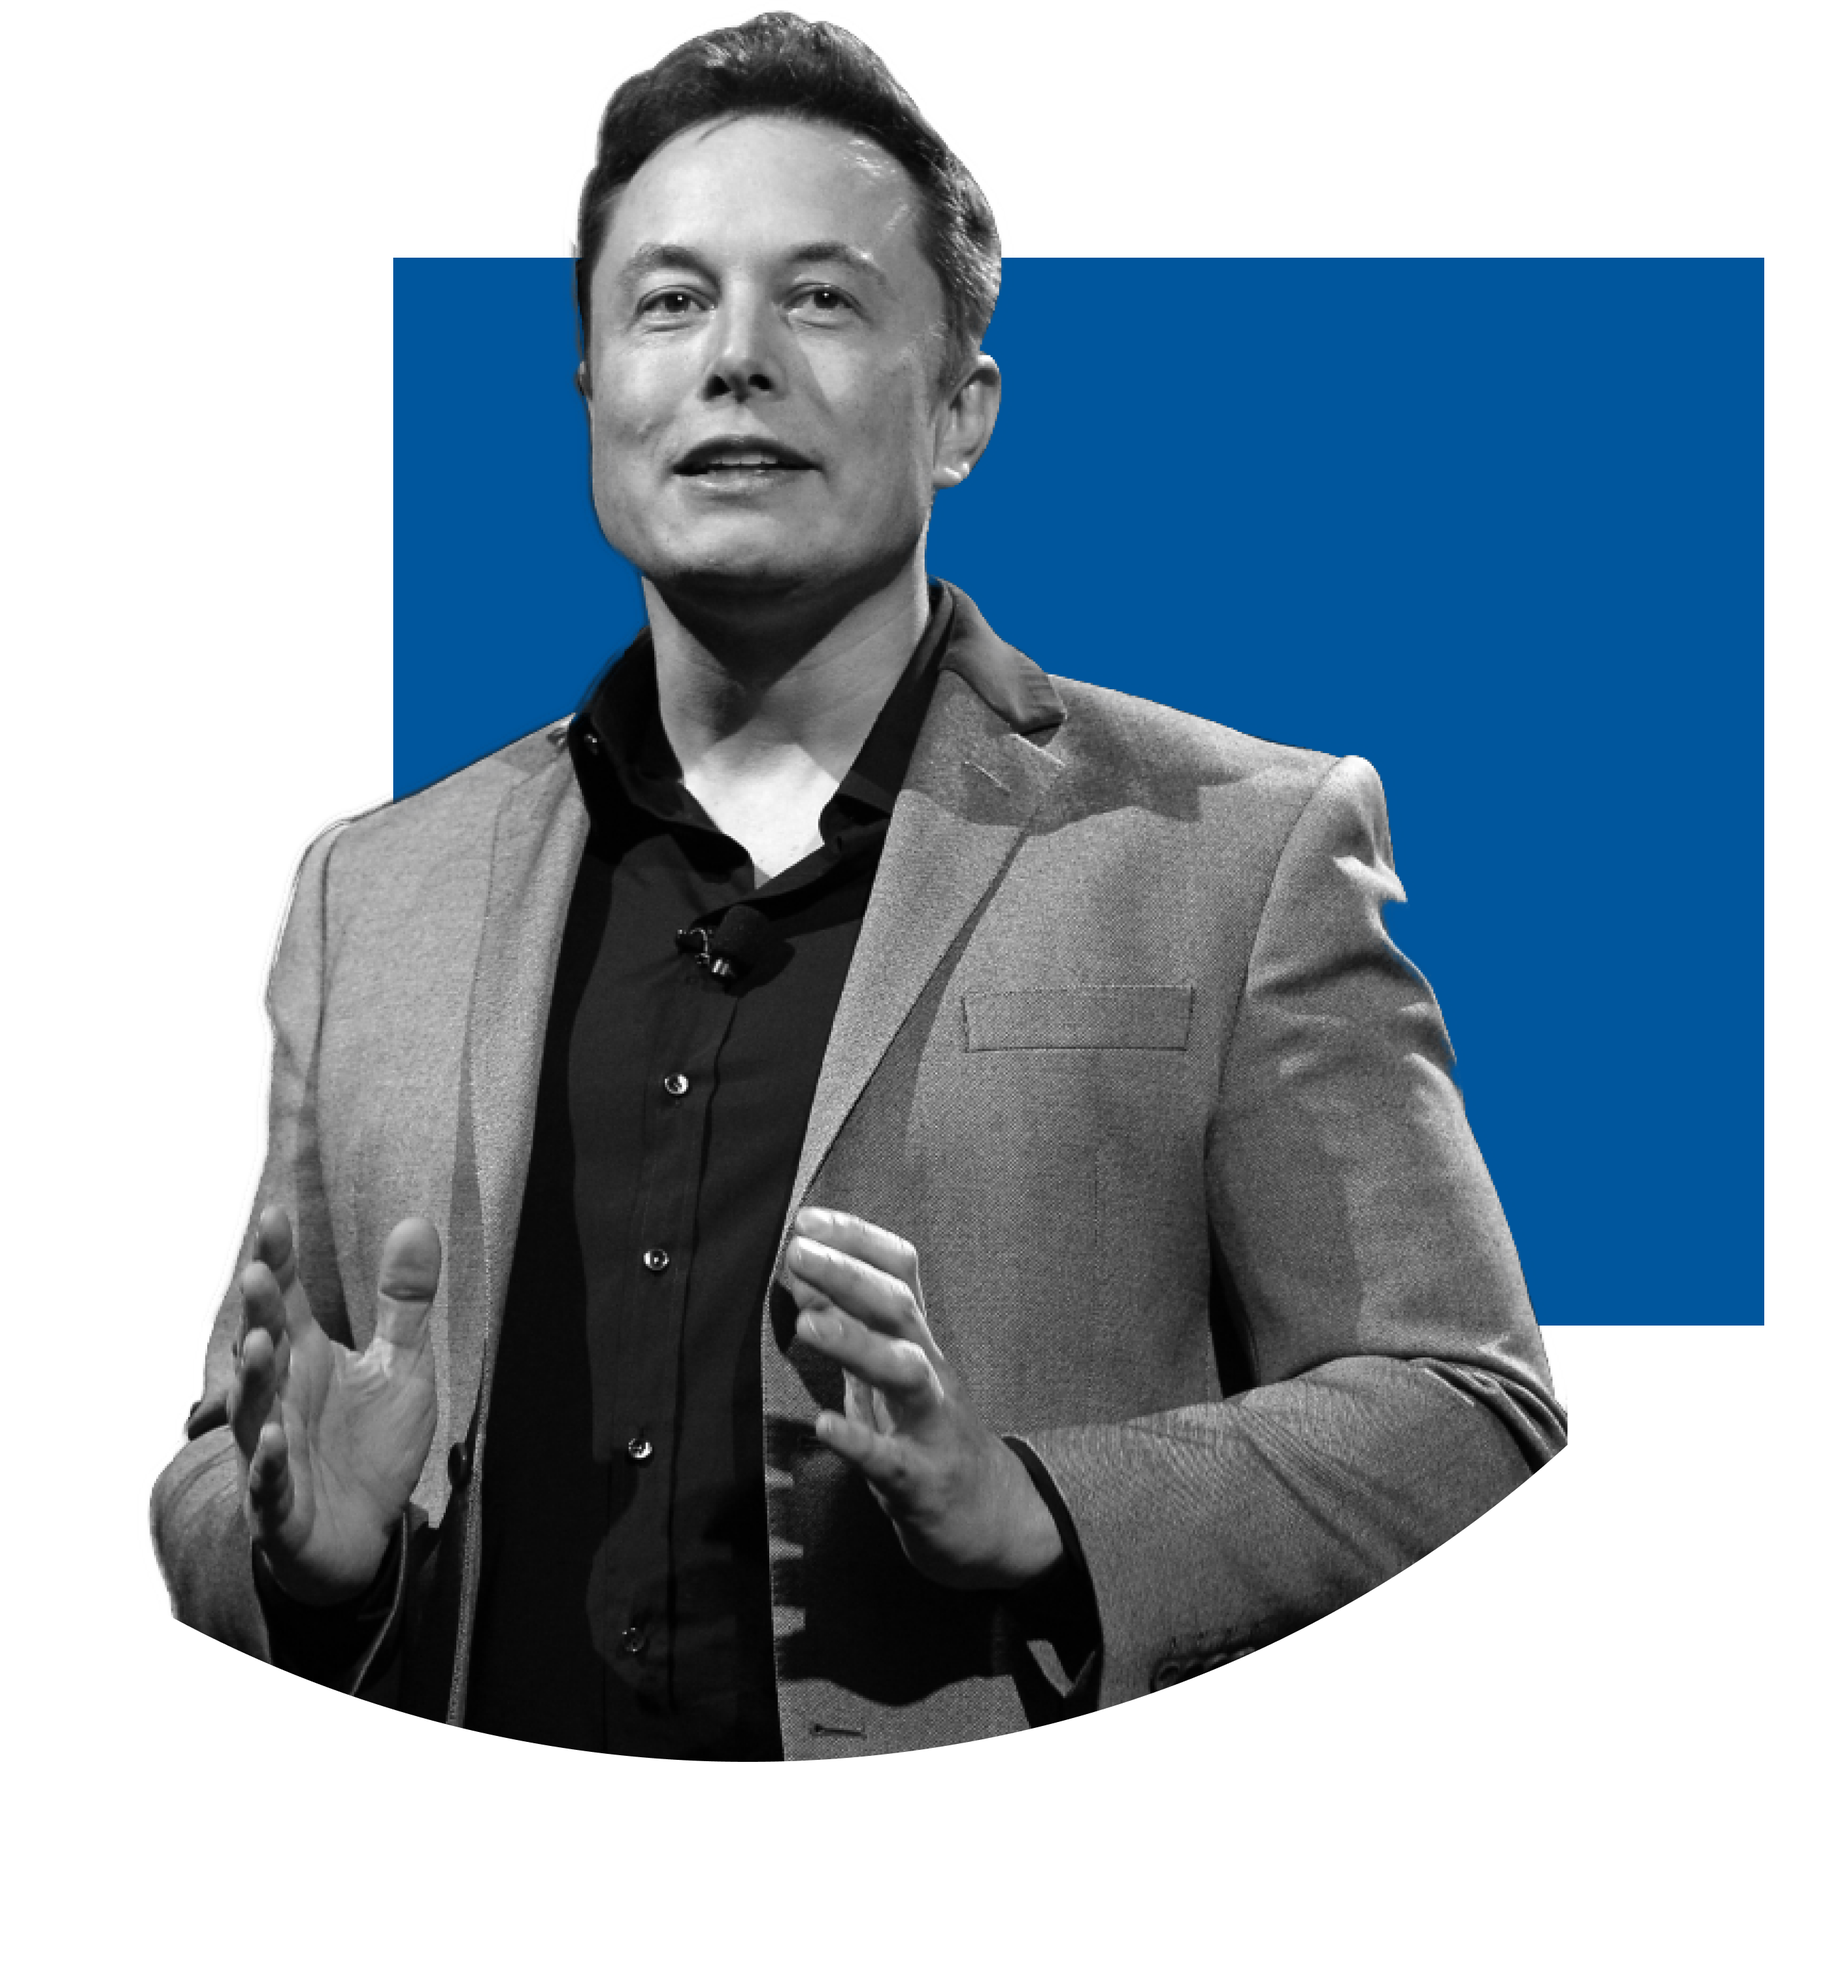
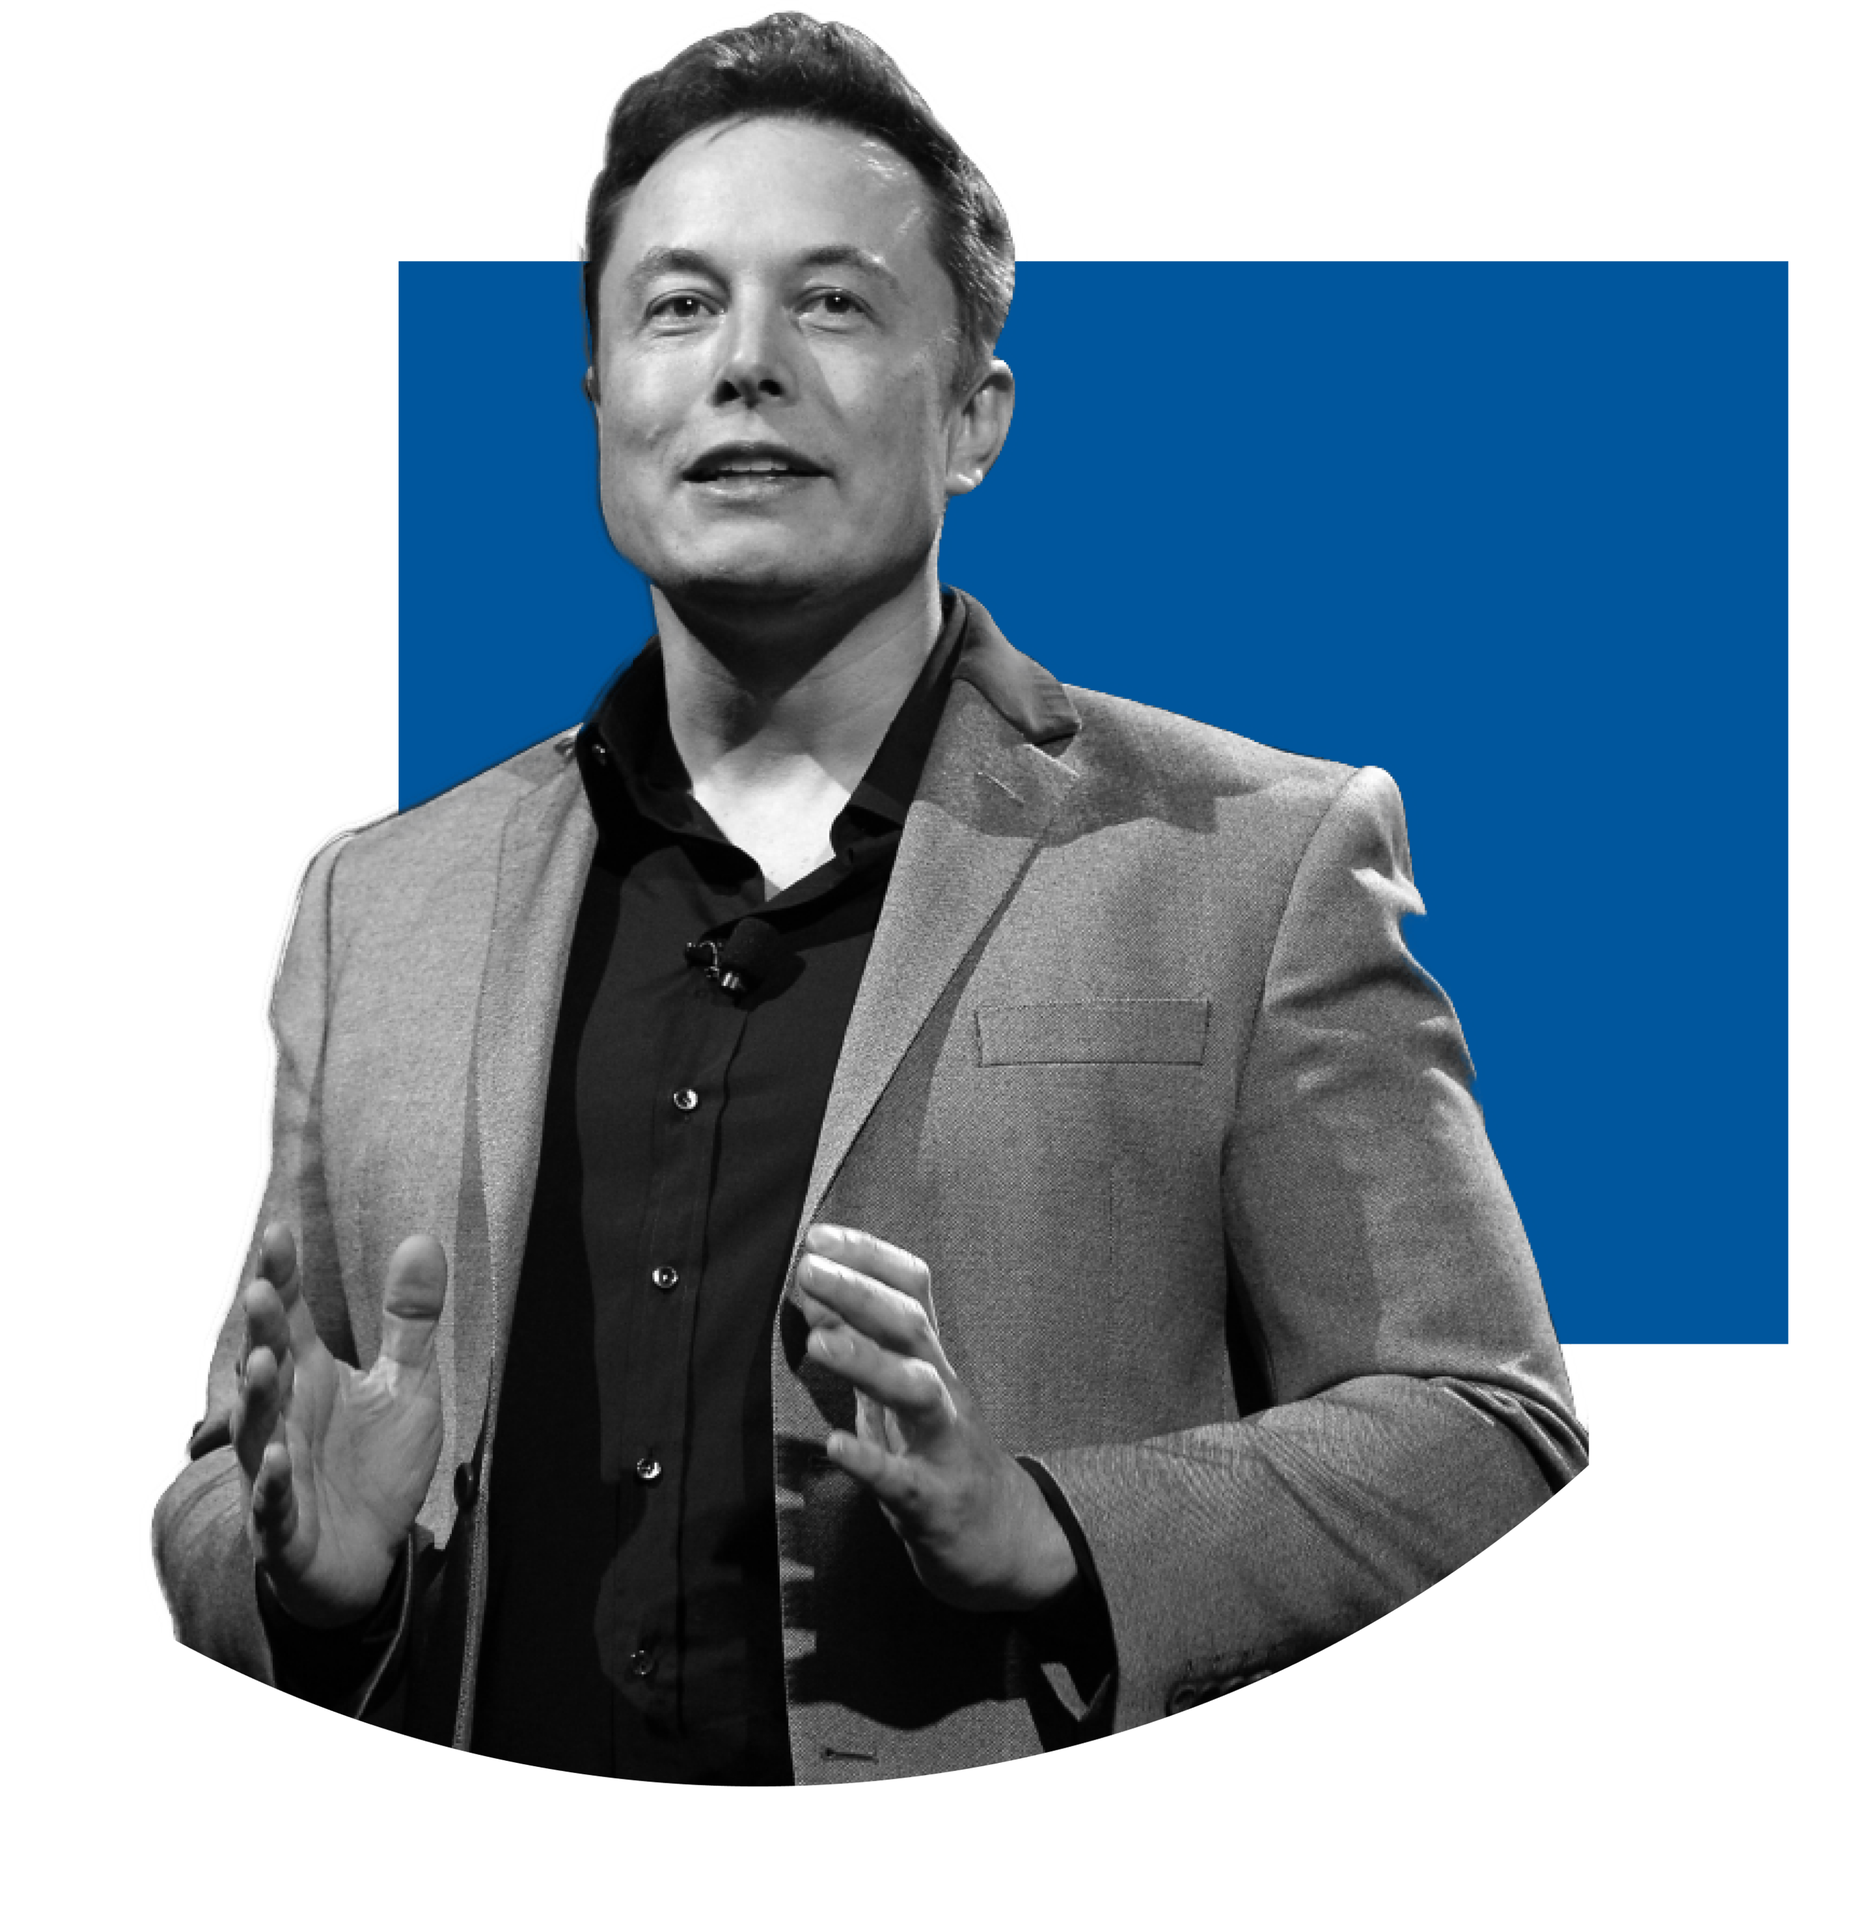
change adaptive

Changed region(s): [[0.0622, 0.0, 0.9645, 0.959]]

diff --git a/src/components/screens/Final.js b/src/components/screens/Final.js
@@ -4,7 +4,6 @@ import { fade, slideDown } from '../../utils/keyframes';
 import { Logo } from "../svg/Logo";
 import { useResult } from '../../hocs/useResult';
 import { getShareParams, SocialNetwork } from '../../utils/getShareParams';
-import {ShareIcon} from "../svg/ShareIcon";
 import { VKShareButton } from '../Button/sharing/VKShareButton';
 import { FacebookShareButton } from '../Button/sharing/FacebookShareButton';
 import {Text} from "../../shared/Text";
@@ -39,7 +38,7 @@ const ResultTitle = styled(Subtitle)`
   
   @media screen and (max-width: 1100px) and (orientation: landscape)
   {
-    margin-top: -2%;
+    //margin-top: -2%;
     margin-bottom: 2.4971%;
   }
   @media screen and (max-width: 640px)
@@ -70,17 +69,23 @@ const InfoWrapper = styled.div`
   @media screen and (max-width: 1100px)
   { 
     position: relative;
-    padding: 68.9453vh 15.2343vw 0 12.36872vw;
+    grid-area: 1/1/1/3;
+    padding: 0 15.2343vw 0 12.36872vw;
     margin: -3.6133vh 0 3.125vh 0;
     z-index: 3;
     color: white;
+    
+    @media screen and (orientation: landscape) {
+      margin: 74vh 0 3.125vh 0;
+    }
   }
   
   @media screen and (max-width: 640px)
   { 
-      padding-left: 8.5333vw;
-      padding-right: 8.5333vw;
+      padding:0 7.5333vw 0 8.5333vw; 
   }
+  
+  
   
 `
 const Blackout = styled.div`
@@ -113,21 +118,27 @@ const ImgWrapper = styled.div`
   animation: ${fade} 0.4s ease-out 0.1s both;
   grid-area: 1/2/2/2;
   padding-top: 10vh;
-  height: 100vh;
+  
+  @media screen and (max-width: 640px) and (orientation: portrait) {
+      width: 375px;
+  }
+  
  @media screen and (max-width: 1100px)
   { 
       padding: 0;
-      grid-area:none;
+      grid-area: 1/1/1/3;
+      width: 556px;
+      height: 64.5vh;
+      margin: 0 auto;
       overflow: hidden;
-      position: absolute;
-      top:0;
-      left:0;
-      bottom: 16.5898vh;
-      right:0;
       @media screen and (orientation: landscape) {
-         bottom: 0;
+         height: 100vh;
+         position: absolute;
+         width: 100%;
       }
   }
+  
+  
 `
 
 const ImgStyled = styled.img`
@@ -137,8 +148,6 @@ const ImgStyled = styled.img`
   object-fit: contain;
   @media screen and (max-width: 1100px) { 
     max-height: none;
-    position:absolute;
-    width:100%;
     overflow: hidden;
     object-fit: cover;
     height: 100%;
@@ -147,6 +156,10 @@ const ImgStyled = styled.img`
     }
   }
   
+  @media screen and (max-width: 640px) and (orientation: portrait) {
+      height: auto;
+      transform: translate(-15%, 0);
+  }
   
 `
 
@@ -155,6 +168,9 @@ const ShareBox = styled.div`
   display: flex;
   margin: 10.2777vh 0 4vh 0;
   align-items: center;
+  @media screen and (max-width: 1100px) { 
+     margin-top: 4.78516vh;
+  }
 `;
 
 const ShareText = styled.p`
@@ -207,9 +223,8 @@ export const Final = props => {
                 <ResultText>{result.description}</ResultText>
                 <br />
                 <InvitingText>
-                    Хочешь, чтобы было так? Проходи отбор &nbsp;
-                    <StyledLink href={'http://fut.ru/grp/severstal_grp'} target={'_blank'}>
-                        на лидерскую программу компании “Северсталь”
+                    Хочешь, чтобы было так? Проходи отбор&nbsp;
+                    <StyledLink href={'http://fut.ru/grp/severstal_grp'} target={'_blank'}>на лидерскую программу компании Северсталь
                     </StyledLink>
                 </InvitingText>
                 <ShareBox>
